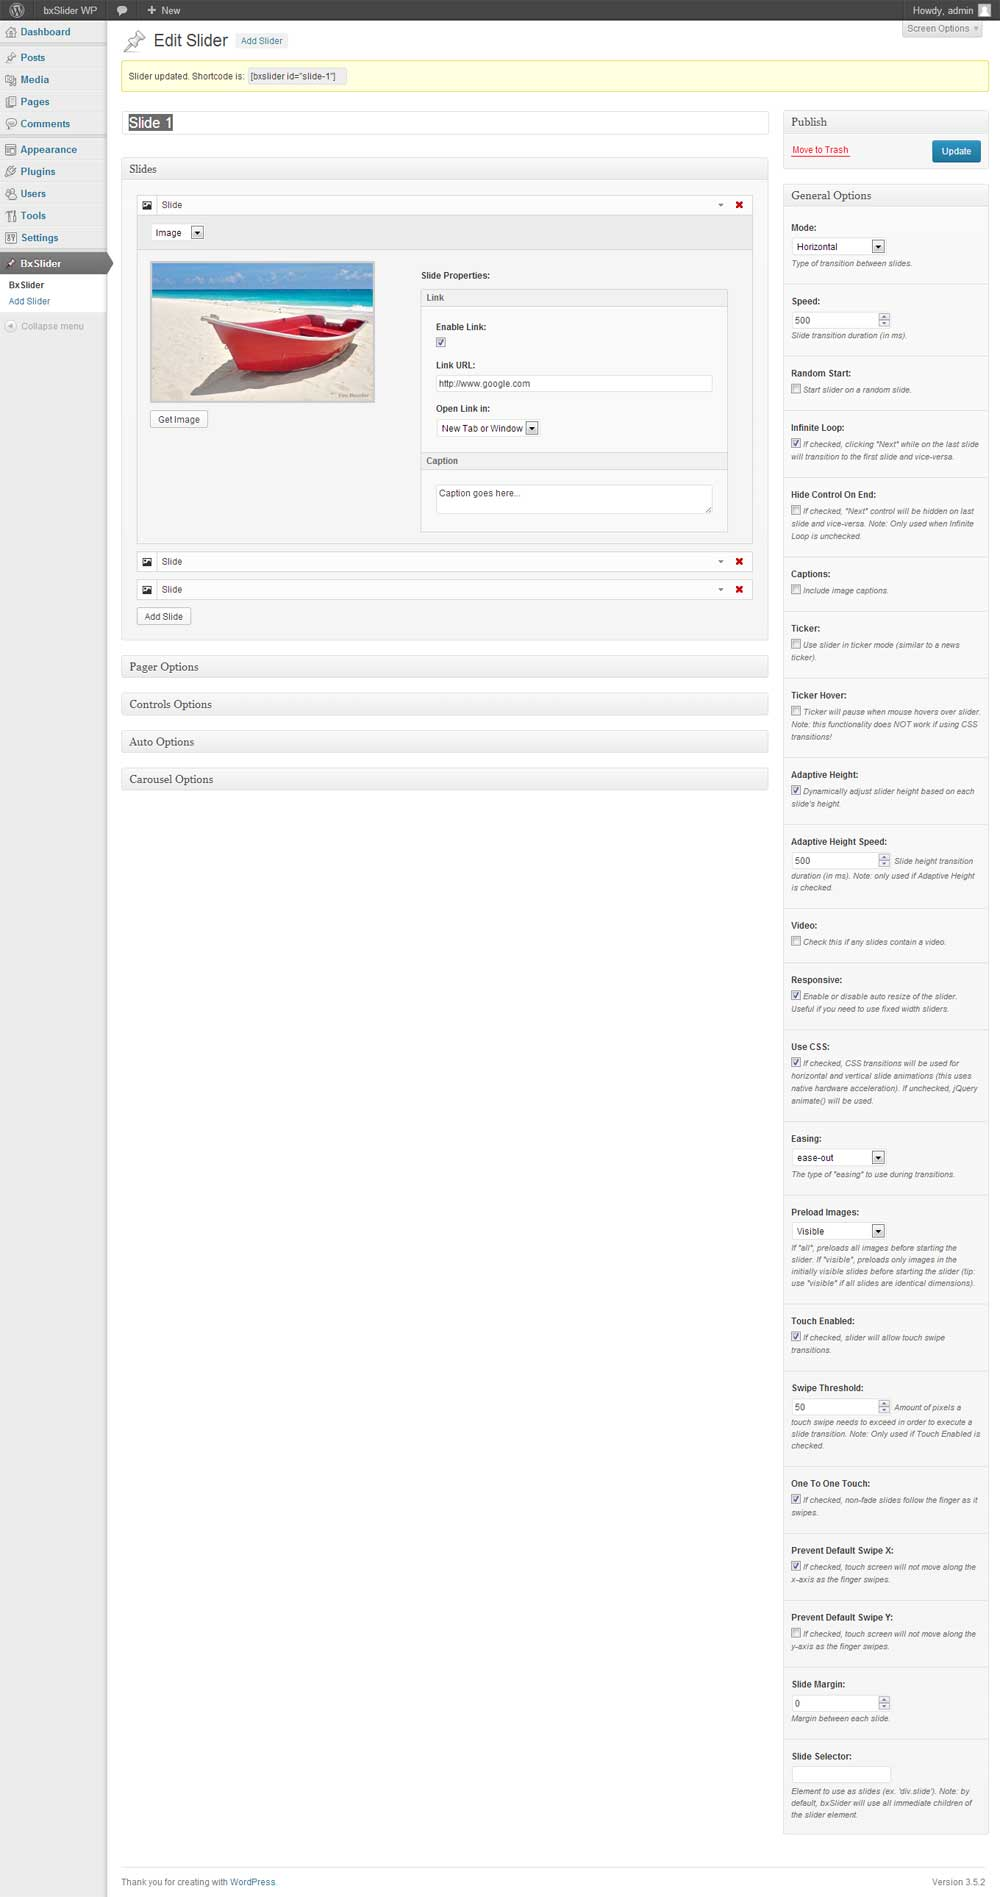
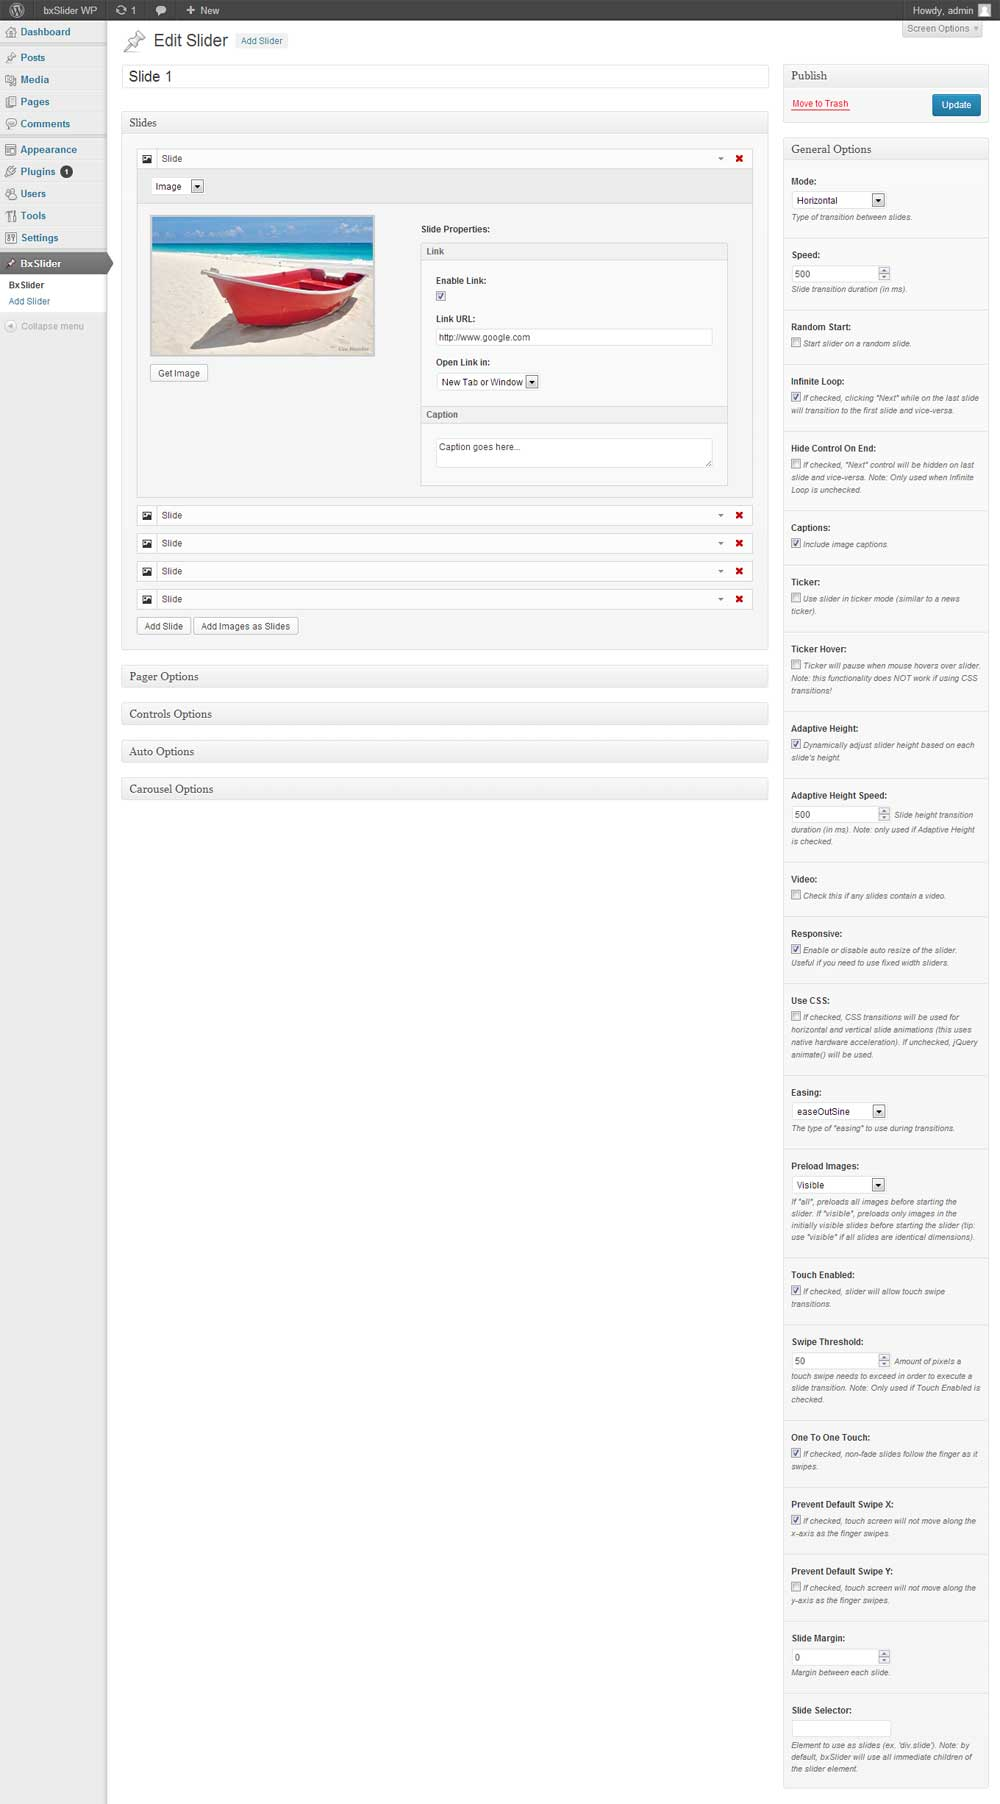
to trunk files 1.3.1
git-svn-id: https://plugins.svn.wordpress.org/bxslider-wp/trunk@743059 b8457f37-d9ea-0310-8a92-e5e31aec5664

diff --git a/js/admin.js b/js/admin.js
@@ -136,6 +136,33 @@ jQuery(document).ready(function($){
             e.preventDefault();
         });
         
+        /*** Add image to slide ***/
+        $('#bxslider-slides-meta-box').on('wpAddImage', '.bxslider-media-gallery-show', function(e, image_url, attachment_id){
+            var current_slide_box, slide_thumb, slide_attachment_id;
+
+            current_slide_box = $(this).parents('.bxslider-slide');/*** get current box ***/
+            slide_thumb = current_slide_box.find('.bxslider-image-thumb');/*** find the thumb ***/
+            slide_attachment_id = current_slide_box.find('.bxslider-image-id ');/*** find the hidden field that will hold the attachment id ***/
+            
+   
+            slide_thumb.html('<img src="'+image_url+'" alt="thumb" />').show();
+            slide_attachment_id.val(attachment_id);
+        });
+        
+        $('#bxslider-slides-meta-box').on('wpAddImages', '.bxslider-multiple-slides', function(e, media_attachments){
+            var cur_slide_count = $('.bxslider-sortables .bxslider-slide').length;
+            
+            console.log('media_attachments.length ' + media_attachments.length);
+            for(i=0; i<media_attachments.length; ++i){
+                
+                $('#bxslider-slides-meta-box .bxslider-add-slide').trigger('click');
+                
+                $('.bxslider-sortables .bxslider-slide').eq(cur_slide_count+i).find('.bxslider-media-gallery-show').trigger('wpAddImage', [media_attachments[i].url, media_attachments[i].id]);
+                console.log('media_attachments ' + media_attachments[i].url);
+            }
+            
+        });
+        
         /*** Toggle - slide body visiblity ***/
         $('#bxslider-slides-meta-box').on('click',  '.bxslider-header', function(e) {
             var id, box, body, cs_slide_toggles;
@@ -263,14 +290,14 @@ jQuery(document).ready(function($){
         
         // Prepare the variable that holds our custom media manager.
         var bxslider_media_frame;
-        var current_slide_box = false;
+        var triggering_element = null;
         
         // Bind to our click event in order to open up the new media experience.
         $(document.body).on('click', '.bxslider-media-gallery-show', function(e){
             // Prevent the default action from occuring.
             e.preventDefault();
             
-            current_slide_box = $(this).parents('.bxslider-slide');/*** get current box ***/
+            triggering_element = jQuery(this);/*** get current clicked element ***/
             
             
             // If the frame already exists, re-open it.
@@ -283,7 +310,7 @@ jQuery(document).ready(function($){
             bxslider_media_frame = wp.media.frames.bxslider_media_frame = wp.media({
                 className: 'media-frame bxslider-frame',
                 frame: 'select',
-                multiple: 1,
+                multiple: false,
                 title: bxslider.title,
                 library: {
                     type: 'image'
@@ -294,13 +321,10 @@ jQuery(document).ready(function($){
             });
     
             bxslider_media_frame.on('select', function(){
-                var media_attachment, slide_thumb, slide_attachment_id, img_url;
+                var media_attachment, img_url, media_attachments;
                 
                 // Grab our attachment selection and construct a JSON representation of the model.
                 media_attachment = bxslider_media_frame.state().get('selection').first().toJSON();
-               
-                slide_thumb = current_slide_box.find('.bxslider-image-thumb');/*** find the thumb ***/
-                slide_attachment_id = current_slide_box.find('.bxslider-image-id ');/*** find the hidden field that will hold the attachment id ***/
                 
                 if(undefined==media_attachment.sizes.medium){ /*** Account for smaller images where medium does not exist ***/
                     img_url = media_attachment.url;
@@ -308,8 +332,60 @@ jQuery(document).ready(function($){
                     img_url = media_attachment.sizes.medium.url;
                 }
                 
-                slide_thumb.html('<img src="'+img_url+'" alt="thumb">').show();
-                slide_attachment_id.val(media_attachment.id);
+                triggering_element.trigger('wpAddImage', [img_url, media_attachment.id]);
+                
+            });
+    
+            // Now that everything has been set, let's open up the frame.
+            bxslider_media_frame.open();
+        });
+    })();
+    
+    
+    (function() {
+        if(!bxslider.new_media_gallery){
+            return; // Exit. Use old gallery code for older wp version
+        }
+        
+        // Prepare the variable that holds our custom media manager.
+        var bxslider_media_frame;
+        var triggering_element = null;
+        
+        // Bind to our click event in order to open up the new media experience.
+        $(document.body).on('click', '.bxslider-multiple-slides', function(e){
+            // Prevent the default action from occuring.
+            e.preventDefault();
+            
+            triggering_element = jQuery(this);/*** get current clicked element ***/
+            
+            
+            // If the frame already exists, re-open it.
+            if ( bxslider_media_frame ) {
+                bxslider_media_frame.open();
+                return;
+            }
+    
+
+            bxslider_media_frame = wp.media.frames.bxslider_media_frame = wp.media({
+                className: 'media-frame bxslider-frame',
+                frame: 'select',
+                multiple: true,
+                title: bxslider.title2,
+                library: {
+                    type: 'image'
+                },
+                button: {
+                    text:  bxslider.button2
+                }
+            });
+    
+            bxslider_media_frame.on('select', function(){
+                var media_attachments;
+                
+                // Grab our attachment selection and construct a JSON representation of the model.
+                media_attachments = bxslider_media_frame.state().get('selection').toJSON();
+                
+                triggering_element.trigger('wpAddImages', [media_attachments]);
                 
             });
     

diff --git a/bxslider/jquery.bxslider.css b/bxslider/jquery.bxslider.css
@@ -26,12 +26,6 @@
 	display: block;
 }
 
-.bxslider,
-.bxslider li{
-	margin: 0;
-	padding: 0;
-}
-
 /** THEME
 ===================================*/
 
@@ -200,4 +194,26 @@
 	display: block;
 	font-size: .85em;
 	padding: 10px;
+}
+
+
+/** BxSlider WP Overrides
+===================================*/
+.bxslider, /* Normalize for twentytwelve */
+.bxslider li{
+	margin: 0;
+	padding: 0;
+}
+body.rtl .bx-wrapper{
+	direction: ltr; /* Fix issue on RTL */
+}
+body.rtl .bx-caption{
+	text-align: right;
+	direction: rtl; /* Fix issue on RTL */
+}
+body.rtl .bx-wrapper .bx-pager.bx-default-pager a,
+body.rtl .bx-wrapper .bx-controls-direction a,
+body.rtl .bx-wrapper .bx-controls-auto .bx-start,
+body.rtl .bx-wrapper .bx-controls-auto .bx-stop{
+	text-indent: 9999px; /* Hide on RTL */
 }

diff --git a/css/admin.css b/css/admin.css
@@ -321,3 +321,14 @@ input:disabled{
 	padding: 20px 0 0 0;
 	font-size: 20px;
 }
+
+
+/*** RTL Support ***/
+body.rtl table td.column-shortcode{
+	direction: ltr;
+	text-align: right;
+}
+body.rtl #message .ltr{
+	direction: ltr;
+	text-align: right;
+}

diff --git a/classes/class-bxslider-builder.php b/classes/class-bxslider-builder.php
@@ -89,7 +89,9 @@ if(!class_exists('Bxslider_Builder')):
                     array(
                         'new_media_gallery' => $new_media_gallery,
                         'title'     => __( 'Select an image', 'bxslider' ), // This will be used as the default title
+                        'title2'     => __( 'Select Images By Ctrl + Clicking Them', 'bxslider' ),
                         'button'    => __( 'Add to Slide', 'bxslider' ), // This will be used as the default button text
+                        'button2'    => __( 'Add Images as Slides', 'bxslider' ),
                         'jquery_easing_options' => $this->to_select_options(Bxslider_Data::get_jquery_easing_options()),
                         'css_easing_options' => $this->to_select_options(Bxslider_Data::get_css_easing_options())
                     )
@@ -205,12 +207,14 @@ if(!class_exists('Bxslider_Builder')):
                     $vars['image_url'] = $this->get_slide_img_thumb($slide['id']);
                     $vars['box_title'] = __('Slide', 'bxslider');
                     
+                    
                     $slide_view->set_vars( $vars );
                     $slides_html .= $slide_view->get_render();
                 endforeach;
             endif;
             $vars = array();
             $vars['slides'] = $slides_html;
+            $vars['post_id'] = $post->ID;
             
             $view = new Bxslider_View( BXSLIDER_PATH . 'views/slides.php' );
             $view->set_vars( $vars );
@@ -458,12 +462,12 @@ if(!class_exists('Bxslider_Builder')):
             global $post, $post_ID;
             $messages['bxslider'] = array(
                 0  => '',
-                1  => sprintf( __( 'Slider updated. Shortcode is: %s', 'bxslider' ), '<input readonly onfocus="bxslider_select(this)" type="text" value="'.esc_attr('[bxslider id="'.$post->post_name.'"]').'">'),
+                1  => sprintf( __( 'Slider updated. Shortcode is: %s', 'bxslider'), '<input readonly onfocus="bxslider_select(this)" class="ltr" type="text" value="'.esc_attr('[bxslider id="'.$post->post_name.'"]').'">'),
                 2  => __( 'Custom field updated.', 'bxslider' ),
                 3  => __( 'Custom field deleted.', 'bxslider' ),
                 4  => __( 'Slider updated.', 'bxslider' ),
                 5  => __( 'Slider updated.', 'bxslider' ),
-                6  => sprintf( __( 'Slider created. Shortcode is: %s', 'bxslider' ), '<input readonly onfocus="bxslider_select(this)" type="text" value="'.esc_attr('[bxslider id="'.$post->post_name.'"]').'">'),
+                6  => sprintf( __( 'Slider created. Shortcode is: %s', 'bxslider'), '<input readonly onfocus="bxslider_select(this)" class="ltr" type="text" value="'.esc_attr('[bxslider id="'.$post->post_name.'"]').'">'),
                 7  => __( 'Slider saved.', 'bxslider' ),
                 8  => __( 'Slider updated.', 'bxslider' ),
                 9  => __( 'Slider updated.', 'bxslider' ),
@@ -476,6 +480,7 @@ if(!class_exists('Bxslider_Builder')):
          * Hook to admin footer  
          */
         public function admin_footer() {
+            
             // Add our slide edit skeleton for use in JS
             if(get_post_type()=='bxslider'){
 
@@ -488,6 +493,7 @@ if(!class_exists('Bxslider_Builder')):
                 $vars['image_url'] = '';
                 $vars['i'] = '{id}';
                 $vars['slide'] = $slide;
+                $vars['post_id'] = isset($_GET['post']) ? (int) $_GET['post'] : 0;
                 
                 $view = new Bxslider_View( BXSLIDER_PATH . 'views/slide-edit.php' );
                 $view->set_vars( $vars );

diff --git a/bxslider-wp.php b/bxslider-wp.php
@@ -3,7 +3,7 @@
 Plugin Name: BxSlider WP
 Plugin URI: http://www.codefleet.net/bxslider-wp/
 Description: Provides an easy to use interface for BxSlider that blends seamlessly with your WordPress workflow.
-Version: 1.0.0
+Version: 1.3.1
 Author: Nico Amarilla
 Author URI: http://www.codefleet.net/
 License:
@@ -25,7 +25,7 @@ License:
   
 */
 if(!defined('BXSLIDER_VERSION')){
-    define('BXSLIDER_VERSION', '1.0.0' );
+    define('BXSLIDER_VERSION', '1.3.1' );
 }
 if(!defined('BXSLIDER_PATH')){
     define('BXSLIDER_PATH', realpath(plugin_dir_path(__FILE__)) . DIRECTORY_SEPARATOR );

diff --git a/views/slides.php b/views/slides.php
@@ -1,7 +1,8 @@
 <?php if(!defined('BXSLIDER_PATH')) die('Direct access denied.'); ?>
 
-<div class="bxslider-sortables" data-post-id="<?php echo $post->ID; ?>">
+<div class="bxslider-sortables" data-post-id="<?php echo $post_id; ?>">
 	<?php echo $slides; ?>
 </div><!-- end .bxslider-sortable -->
 
 <input type="button" value="<?php _e('Add Slide', 'bxslider'); ?>" class="bxslider-add-slide button-secondary" />
+<input type="button" value="<?php _e('Add Images as Slides', 'bxslider'); ?>" class="bxslider-multiple-slides button-secondary" />
